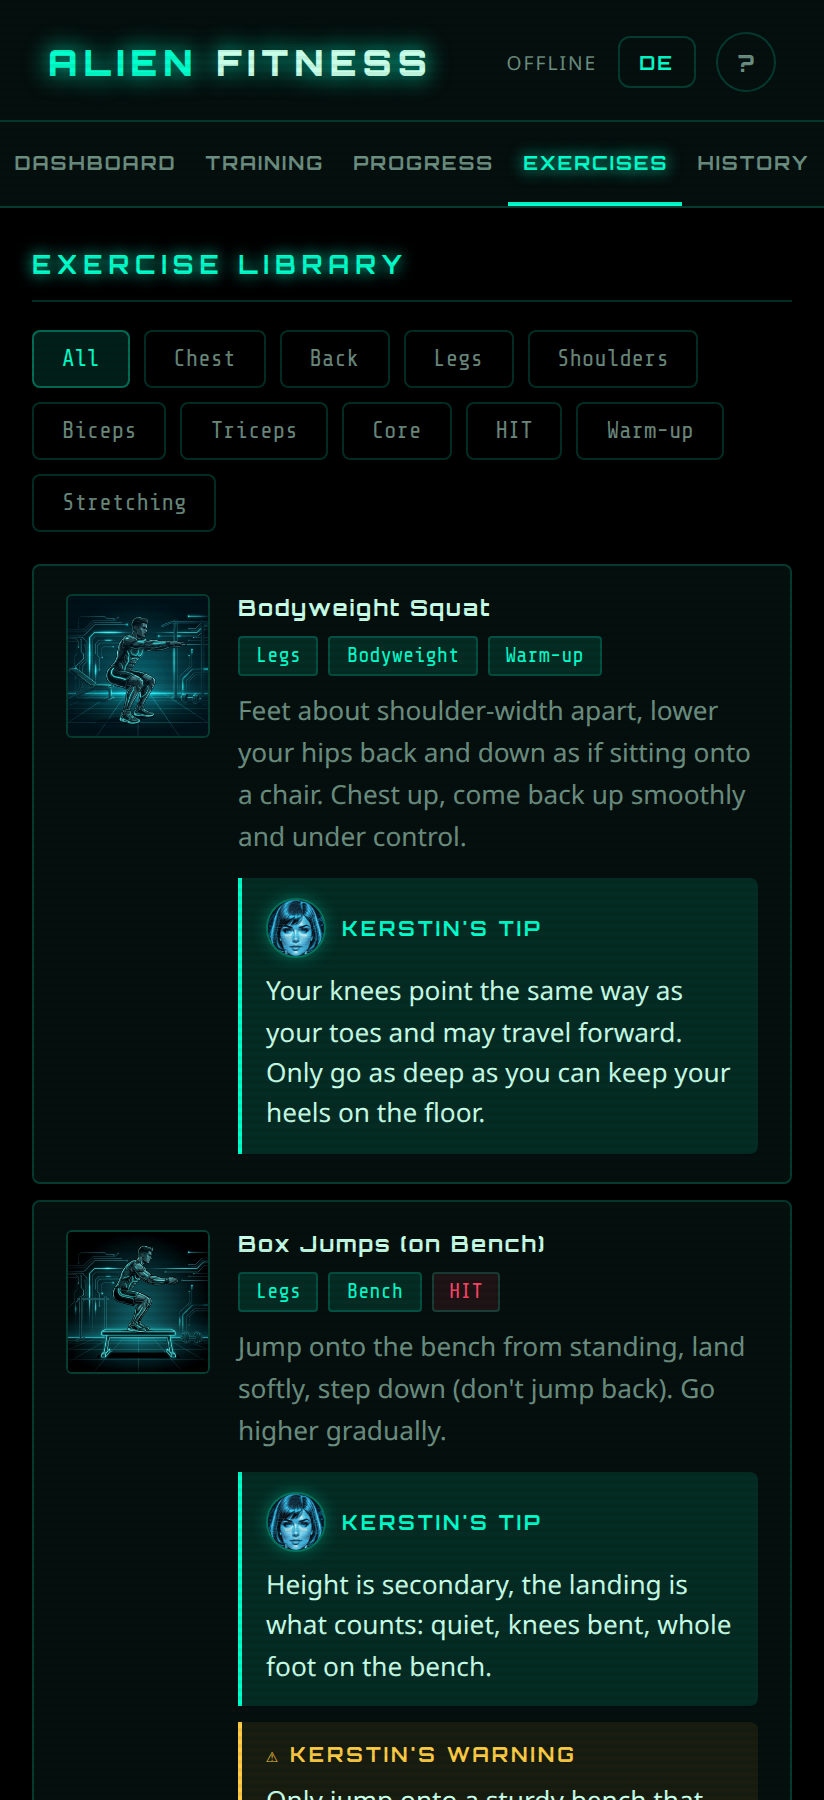
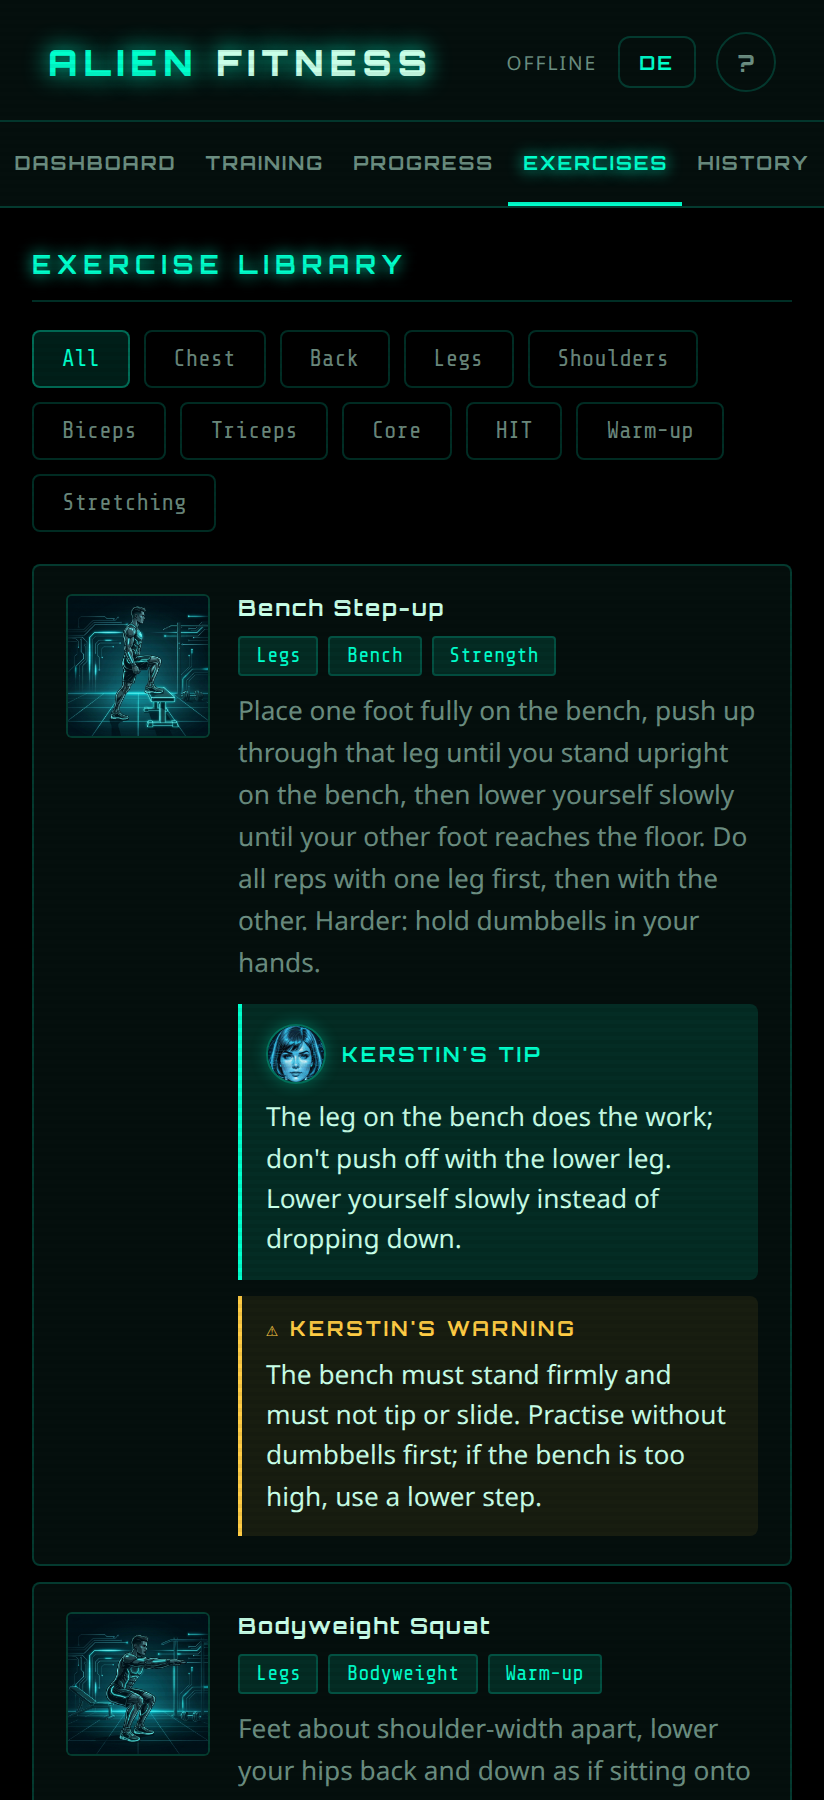
v2.14.0: Release-Texte und Store-Screenshots
- README und Zap-Store-Text: Bestleistung je Übung, Steigerungs-Hinweis in
  Kraft-Plänen, Wandsitzen bei den Halteübungen, 58 Übungen.
- Store-Screenshots neu (Training mit Bestleistung, Hinweis und ★, Fortschritt
  mit der Zeile „Personal best“, Bibliothek mit 58 Übungen).
- Faktencheck der Texte gegen den Code (Opus): zwei Sätze der Release-Notiz
  und drei Formulierungen präzisiert.
- Kein Code geändert: die APK (Code 22) stammt aus dem Commit davor, public/
  ist gleich.

Claude-Session: https://claude.ai/code/session_01SmuTmodjmBa2jV9krYBGTc

Changed region(s): [[0.0607, 0.3111, 0.9405, 1.0], [0.091, 0.3422, 0.2427, 0.4044]]

diff --git a/README.md b/README.md
@@ -22,16 +22,18 @@ has been retired.
 - Warm-up and stretching: a warm-up block above every workout and a stretching offer when you finish (neither is saved), or run them as their own plans; Thorsten announces the next exercise (by name in German) and when to switch sides, and the timer shows a picture of the next exercise and, at a tap on "How-to", how it is done
 - Live session logging with automatic rest timer, corrections supported
 - "Last time" on the exercise cards and in every set dialog, sets come pre-filled: progressive overload at a glance
+- Personal best per exercise, calculated from your logged sets (heaviest weight, at equal weight the most reps; for holds the longest time): shown on the exercise card and below the progress chart; a set that beats it gets a ★ and the finish screen lists it. Intervals, holds in HIT plans, warm-up and stretching are not counted
+- Progression hint in strength plans: if every planned set reached the top of the rep range at the same weight last time, the card and the set dialog suggest that you can try a little more weight (or a harder variation for bodyweight exercises)
 - "Up next" on the dashboard marks the strength plan that follows in your usual order, once you have trained two different strength plans
 - HIT intervals: timed sets ("20 sec") let you pick the work time (20–180 s or custom), then a 5 s get-ready countdown, work timer, rest and auto-chained next round
-- Hold exercises (plank, side plank, stretches): pick the hold time per set (30–180 s or custom; "Max" as a stopwatch for holds without sides), 5 s get-ready countdown; holds done per side (side plank, most stretches) switch sides automatically
+- Hold exercises (plank, side plank, wall sit, stretches): pick the hold time per set (30–180 s or custom; "Max" as a stopwatch for holds without sides), 5 s get-ready countdown; holds done per side (side plank, most stretches) switch sides automatically
 - Announcer voice: Thorsten calls out "Get ready", "Go", "Rest" and the last round, short tones count down the last three seconds before each automatic start (German, or simple English words in English mode); bundled audio files, turn it off with one tap
 - Technique tips for every exercise and safety warnings for some, from Kerstin (German and English)
 - Interrupted workouts survive an app kill and can be resumed, saved or discarded
 - Session details with every set, a free-text note and delete
 - Progress charts per exercise (max weight / reps or seconds over time)
 - Sets per body area: the progress view counts your completed sets per muscle group over the last 7 or 28 days (strength and HIT); areas without a set stay visible, so gaps show up
-- Exercise library with 50 exercises, each with an image, muscle group and equipment, filterable by muscle group, HIT, warm-up or stretching
+- Exercise library with 58 exercises, each with an image, muscle group and equipment, filterable by muscle group, HIT, warm-up or stretching
 - JSON backup: export saves a file to "Documents" and opens the share sheet (Android 11+; older versions: share sheet only); import with merge (duplicate detection) or replace
 - German and English interface, switchable in-app
 - Dark neon UI, mobile-first; screen stays awake during a workout, timer ends with vibration and an announcement (or a beep with the voice off)
